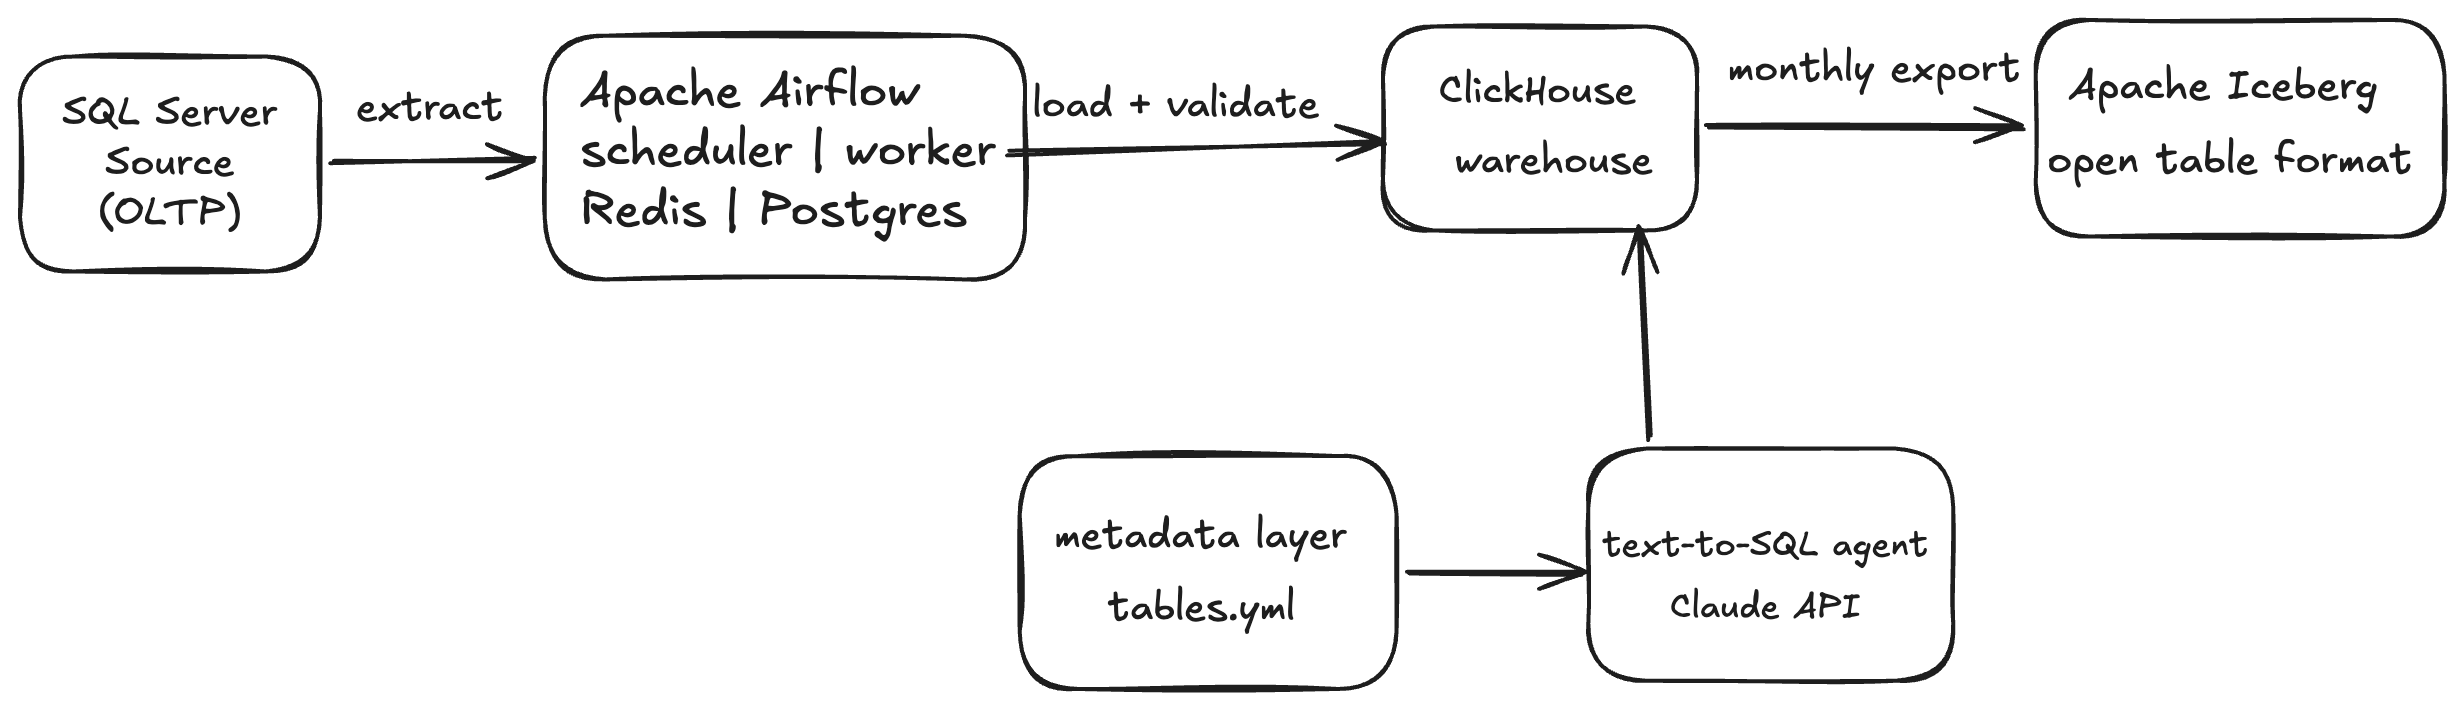
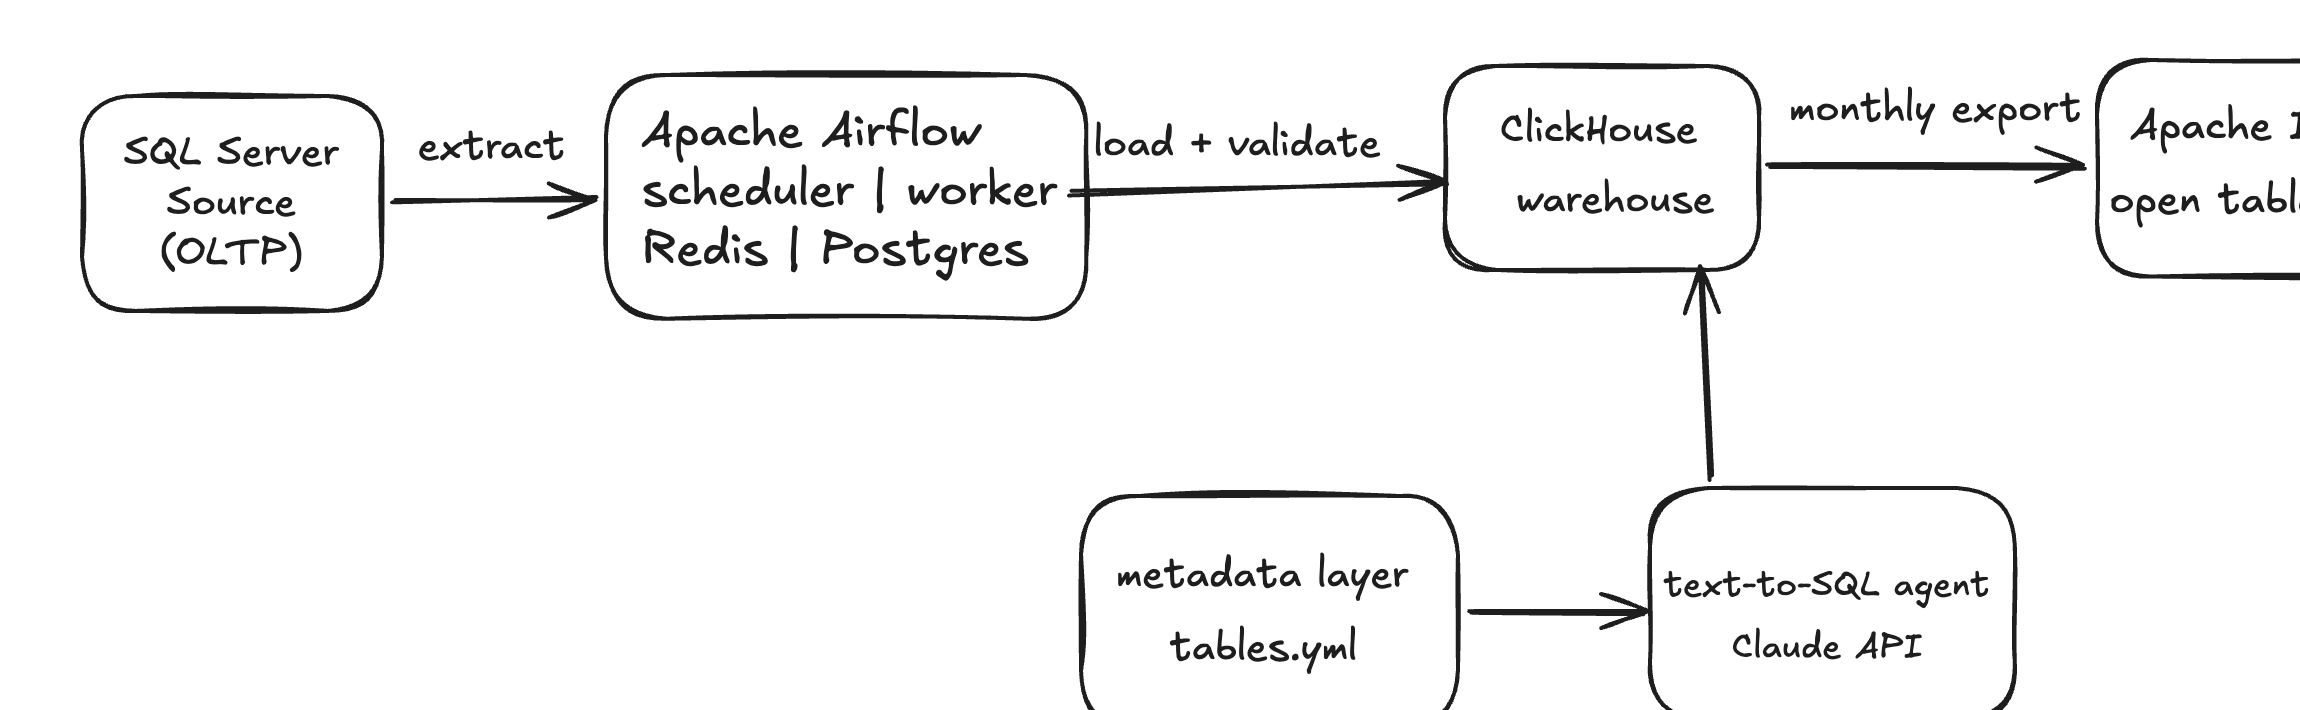
readme final

diff --git a/agent/ask_warehouse.py b/agent/ask_warehouse.py
@@ -74,6 +74,7 @@ def main():
     ch = clickhouse_connect.get_client(
         host=os.environ.get("CLICKHOUSE_HOST", "localhost"),
         port=int(os.environ.get("CLICKHOUSE_PORT", 8123)),
+        password=os.environ.get("CLICKHOUSE_PASSWORD", ""),
     )
     result = ch.query(sql)
 

diff --git a/README.md b/README.md
@@ -2,22 +2,24 @@
 
 
 A demand planning data warehouse built end to end.
-The vehicle data lands inSQL server, an airflow pipeline transfers it into ClickHouse with validation.
+The vehicle data lands in SQL server, an airflow pipeline transfers it into ClickHouse with validation.
 Once the validation is done a monthly aggregate gets exported to the Apache Iceberg, and also a small agent where it answers the questions about the data in plain English.
 So I built this to get hands-on with modern data infrastructure which is columnar databases, open table formats, and orchestration.
 
 ## Architecture
-Boxes: SQL Server -> Airflow (CeleryExecutor: scheduler, worker, Redis,
-Postgres) -> ClickHouse -> Iceberg, plus the metadata layer + agent on the side.
-
 ![architecture](docs/architecture.png)
 
 ## What it does
+![Airflow DAGs](docs/airflow_dags_green.png)
+
+![validation at 3M rows](docs/validation_3m.png)
 
 - Generates ~3M synthetic vehicle orders with realistic skew (weekend dip, quarter end spike) into SQL Server
 - Migrates them to ClickHouse with an Airflow DAG using keyset pagination and post migration validation (row counts + checksums)
 - Benchmarks 4 real demand planning queries on both databases
 - Exports a monthly aggregate to Apache Iceberg and demonstrates schema evolution and time travel
+
+![Iceberg schema evolution](docs/iceberg_schema_evolution.png)
 - Serves plain English questions through a text-to-SQL agent grounded in a documented metadata layer
 
 ## Benchmark results
@@ -40,22 +42,23 @@ The gap would be smaller on native hardware but the shape of the results would n
 ## Why ClickHouse is faster here
 
 The difference is not magic, it comes from four design choices.
-First: ClickHouse stores data by column, so a query that touches three columns reads only those threee from disk, while SQL Server reads whole rows.
+First: ClickHouse stores data by column, so a query that touches three columns reads only those three from disk, while SQL Server reads whole rows.
 Second: The TABLE'S ORDER BY ( region, model, order_date) matches how demand queries actually filter, so most queries read a small sorted slice instead of scanning everything.
-Third: The table is separated by month, which means date filtered queries skip entire months of data without touching them.
+Third: The table is partitioned by month, which means date filtered queries skip entire months of data without touching them.
 Fourth: The region, model and status columns use LowCardinality, which dictionary encodes them, making group-by on those columns very cheap.
 
 ## Iceberg: when I'd use it and when I wouldn't
 
-The DAG this is exported shows the two features that make Iceberg interesting. So I added a column to the table and the existing data files were not touched or rewritten, old rows stay readable with the new column returning null.
+The export DAG demonstrates the two features that make Iceberg interesting. So I added a column to the table and the existing data files were not touched or rewritten, old rows stay readable with the new column returning null.
 Also I read the table back at an earlier snapshotID, which is time travel.
 
 My take after building this Iceberg makes sense when multiple teams or engines need to share the same tables, since Spark, Trino and ClickHouse can all read one Iceberg table, and when you need schema evolution and history for audit.
-It really does not make any sense as a replacement for the serving layer. For a single team serving fast dashboards, native MergeTree is simpler and faster, The way I would run it in production: CliclkHouse as the saving layer, Iceberg as the shared bakehouse layer underneath. They are layers, not competitors.
+It really does not make any sense as a replacement for the serving layer. For a single team serving fast dashboards, native MergeTree is simpler and faster, The way I would run it in production: ClickHouse as the serving layer, Iceberg as the shared lakehouse layer underneath. They are layers, not competitors.
 
 ## The metadata layer and the agent
 
 To be honest the agent is the least interesting part of this repo, the metadata is the point. So, every table and column is described in metadata/tables.yml, including business rules like "status = 5 means cancelled, exclude it from demand counts." Without that one rule the generated SQL is confidently wrong. What I took from building this is making the data AI ready is mostly a documentation problem but not a model problem.
+![agent demo](docs/agent_demo.png)
 
 ## Quickstart
 
@@ -88,18 +91,18 @@ Needs Docker Desktop with at least 8GB RAM allocated (SQL Server alone wants ~2G
    layer for running Intel code on ARM chips, and its dramatically faster and more stable than Docker's default emulator (QEMU).Without this, the SQL server tends to be slow and flaky. The one-sentence version if asked: " Microsoft doesn't ship ARM images for SQL server, so on my M-   
    series Mac I pinned the platform to amd64 and ran it through Rosetta emulation.
 
-2. The Scheduler crash loop (the best story of the three): The Airflow itself is a python application, and it stores all its internal state where DAG runs, task states in a database via a library called SQLAlchemy. Airflow 2.10 is written against SQLAlchemy version 1.4. SQLAlchemy  
+2. The Scheduler crash loop: The Airflow itself is a python application, and it stores all its internal state where DAG runs, task states in a database via a library called SQLAlchemy. Airflow 2.10 is written against SQLAlchemy version 1.4. SQLAlchemy  
    2.0 changed how database models are declared, in ways that break 1.4-style code. The pyiceberg is the library that reads and writes Iceberg tables. The SQL catalog feature requires SQLAlchemy 2. Python can only have one version of a library installed per environment, so when pip  
    installed pyiceberg into the Airflow image, it upgraded SQLAlchemy to 2.x, and the moment any Airflow process started up and tried to load its own database models, it crashed with MappedAnnotationError. That is why all three containers were restart-looping: they died on import,  
    before doing anything.
-   The fix uses Airlfow's @task.virtualenv decorator, which exists precisely for this situation, instead of running the task's python function in the main Airflow environment, it builds a free, isolated virtual environment at runtime, installs only that task's requirements into it 
+   The fix uses Airflow's @task.virtualenv decorator, which exists precisely for this situation, instead of running the task's python function in the main Airflow environment, it builds a free, isolated virtual environment at runtime, installs only that task's requirements into it 
    and runs the function there. Airflow keeps its SQLAlchemy 1.4; the Iceberg task gets its SQLAlchmemy 2; they never share a process. The trade-off is that the first run is slower because building the vent takes a couple of minutes. 
    One-sentence version: "pyiceberg and Airflow need incompatible SQLAlchemy versions, so I isolated the Iceberg tasks in per-task virtualenvs instead of installing pyiceberg into the shared image.
 
 3. ClickHouse auth: Every ClickHouse server has a built-in user called default. Older ClickHouse Docker images allowed that user to connect with no password from anywhere, which was convenient but insecure to anyone who could reach the port had full access. Recent images tightened  
    this: passwordless access for default is restricted, so when my Airflow task connect from another container with an empty password, ClickHouse rejected it with error 516, "Authentication failed".
    The fix: The ClickHouse image accepts CLICKHOUSE_USER and CLICKHOUSE_PASSWORD environment variables at startup, which configure the default user with a real password. I set those on the CLickHouse container, put the password in .env and referenced it as ${CLICKHOUSE_PASSWORD} in  
-   the comps file so both the ClickHOuse container and the Airflow containers read the same value. The benchmark script, which runs on my laptop rather than in a container, takes it as an environment variable on the command line.
+   the compose file so both the ClickHOuse container and the Airflow containers read the same value. The benchmark script, which runs on my laptop rather than in a container, takes it as an environment variable on the command line.
    One -sentence version: Newer ClickHouse images don't allow passwordless default-user access from other hosts, so I set an explicit password via the container's environment vars and wired it through .env to everything that connects.
 
 ## What I'd do differently with more time